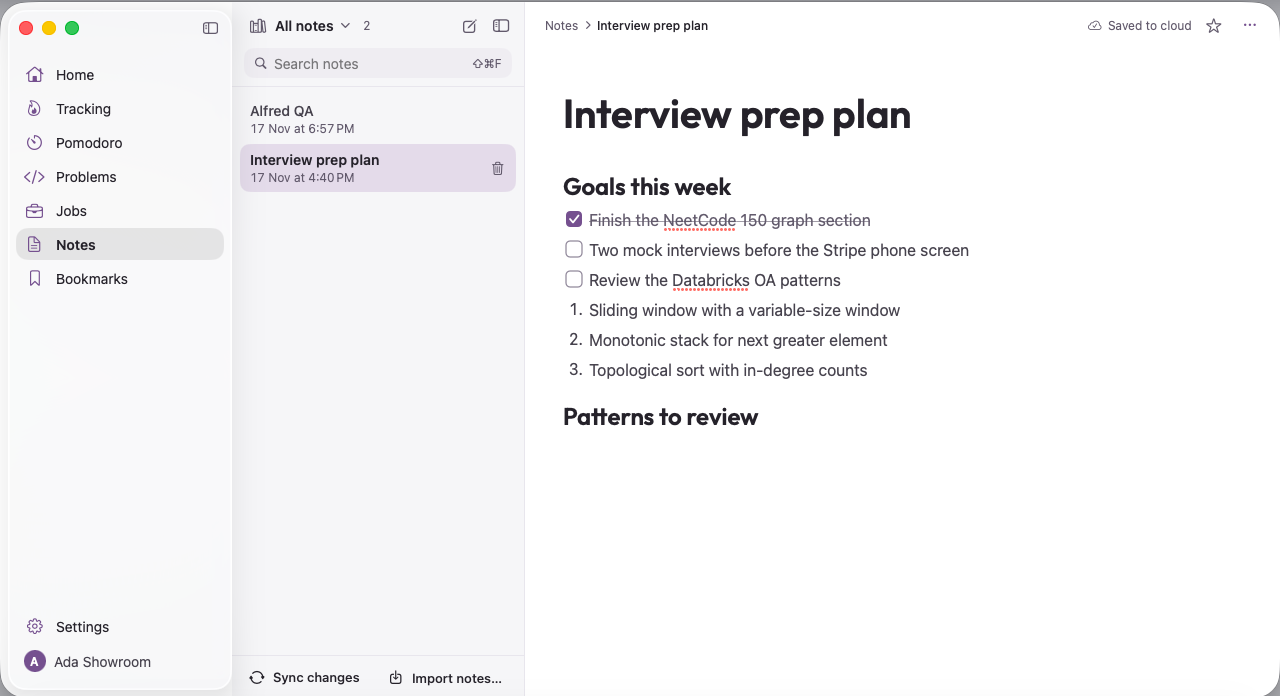
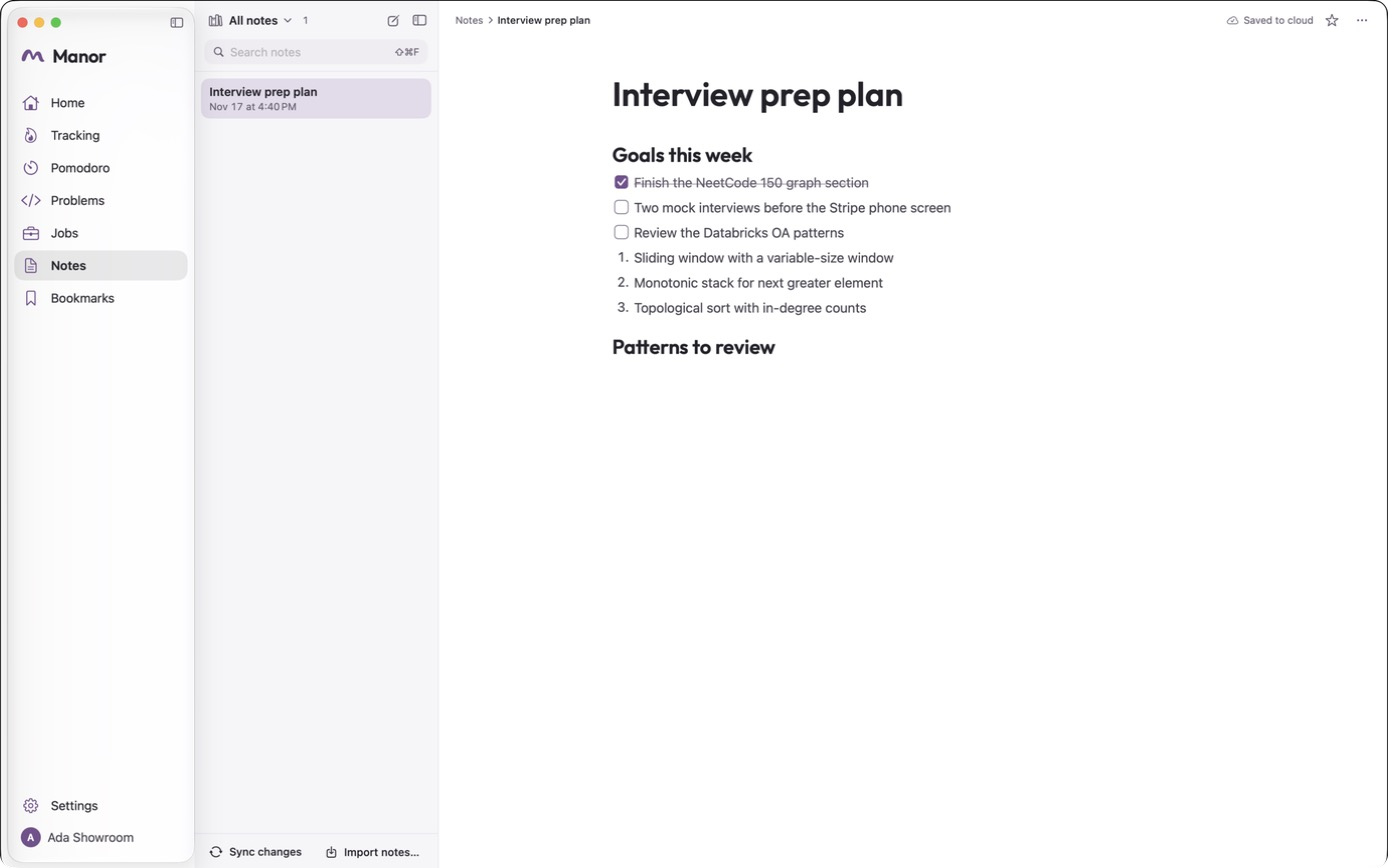
Retake the README screenshots in light mode at full width
Home, Tracking history (October), Problems, Jobs, and Notes are captured from the staging build with
the showroom account on a full-size window, with transparent rounded corners, and each shows at the
full 860-point width. The dark Home shot is gone, and Alfred is described as the personal assistant
in the notch.

diff --git a/README.md b/README.md
@@ -40,31 +40,31 @@ Manor brings your tasks, habits, notes, and other records together in one place 
 - **Jobs.** A Pipeline board from To apply through Offer with a flow chart of every application, and a Listings view of the SimplifyJobs internship catalog.
 - **Notes.** A block editor with columns, tabs, tables, media, equations, and a live table of contents. Drafts are protected on your Mac before they sync, concurrent edits merge by block, and seven days of versions can be restored.
 - **Bookmarks.** X bookmarks and agent-supplied captures with text and semantic search.
-- **Alfred.** A personal assistant in the notch and the menu bar. General mode answers questions about your screen; Prep mode listens to a call and prepares answers, with live diagrams and charts. Inside Manor, the same shortcut opens Alfred in the window, where it answers about the page you're on and makes changes you ask for, each with Undo. In Notes, `/alfred` writes diagrams, tables, and prose as real blocks, and Command-J rewrites a selection through a preview. It uses your own OpenAI and Deepgram keys and keeps its data on your Mac.
+- **Alfred.** A personal assistant in the notch. Ask it about anything on your screen or any question you have. Inside Manor, the same shortcut opens Alfred in the window, where it answers about the page you're on and makes changes you ask for, each with Undo. In Notes, `/alfred` writes diagrams, tables, and prose as real blocks, and Command-J rewrites a selection through a preview. It uses your own OpenAI key and keeps its data on your Mac.
 - **Weekly reviews.** A scheduled review of habits, mood, focus, and tasks, written by a hosted ChatGPT task and saved back into Manor.
 
 Light and dark modes are both first-class, and Liquid Glass draws the floating chrome on macOS 26.
 
 ## Screenshots
 
-These are captured from the staging build with the synthetic showroom account.
-
 <p align="center">
   <img src="docs/readme/home.png" width="860" alt="Home: the weekly task board with Overdue, Today, Tomorrow, and This Week columns beside today's timeline">
 </p>
 
 <p align="center">
-  <img src="docs/readme/tracking.png" width="420" alt="Tracking history: the month in numbers and separate habit completion and mood and focus trend charts">
-  <img src="docs/readme/problems.png" width="420" alt="Problems: the library of about 10,000 problems with filters, difficulty, companies, and status">
+  <img src="docs/readme/tracking.png" width="860" alt="Tracking history: October in numbers, habit completion and mood and focus trend charts, and the month's check-ins">
 </p>
 
 <p align="center">
-  <img src="docs/readme/jobs.png" width="420" alt="Jobs: the pipeline board of applications by stage">
-  <img src="docs/readme/notes.png" width="420" alt="Notes: the notes list beside a note with headings, a checklist, and a numbered list">
+  <img src="docs/readme/problems.png" width="860" alt="Problems: the library of about 10,000 problems with filters, difficulty, companies, and status">
 </p>
 
 <p align="center">
-  <img src="docs/readme/home-dark.png" width="860" alt="Home in dark mode">
+  <img src="docs/readme/jobs.png" width="860" alt="Jobs: the pipeline board of applications by stage above the application flow">
+</p>
+
+<p align="center">
+  <img src="docs/readme/notes.png" width="860" alt="Notes: the notes list beside a note with headings, a checklist, and a numbered list">
 </p>
 
 ## How it works
